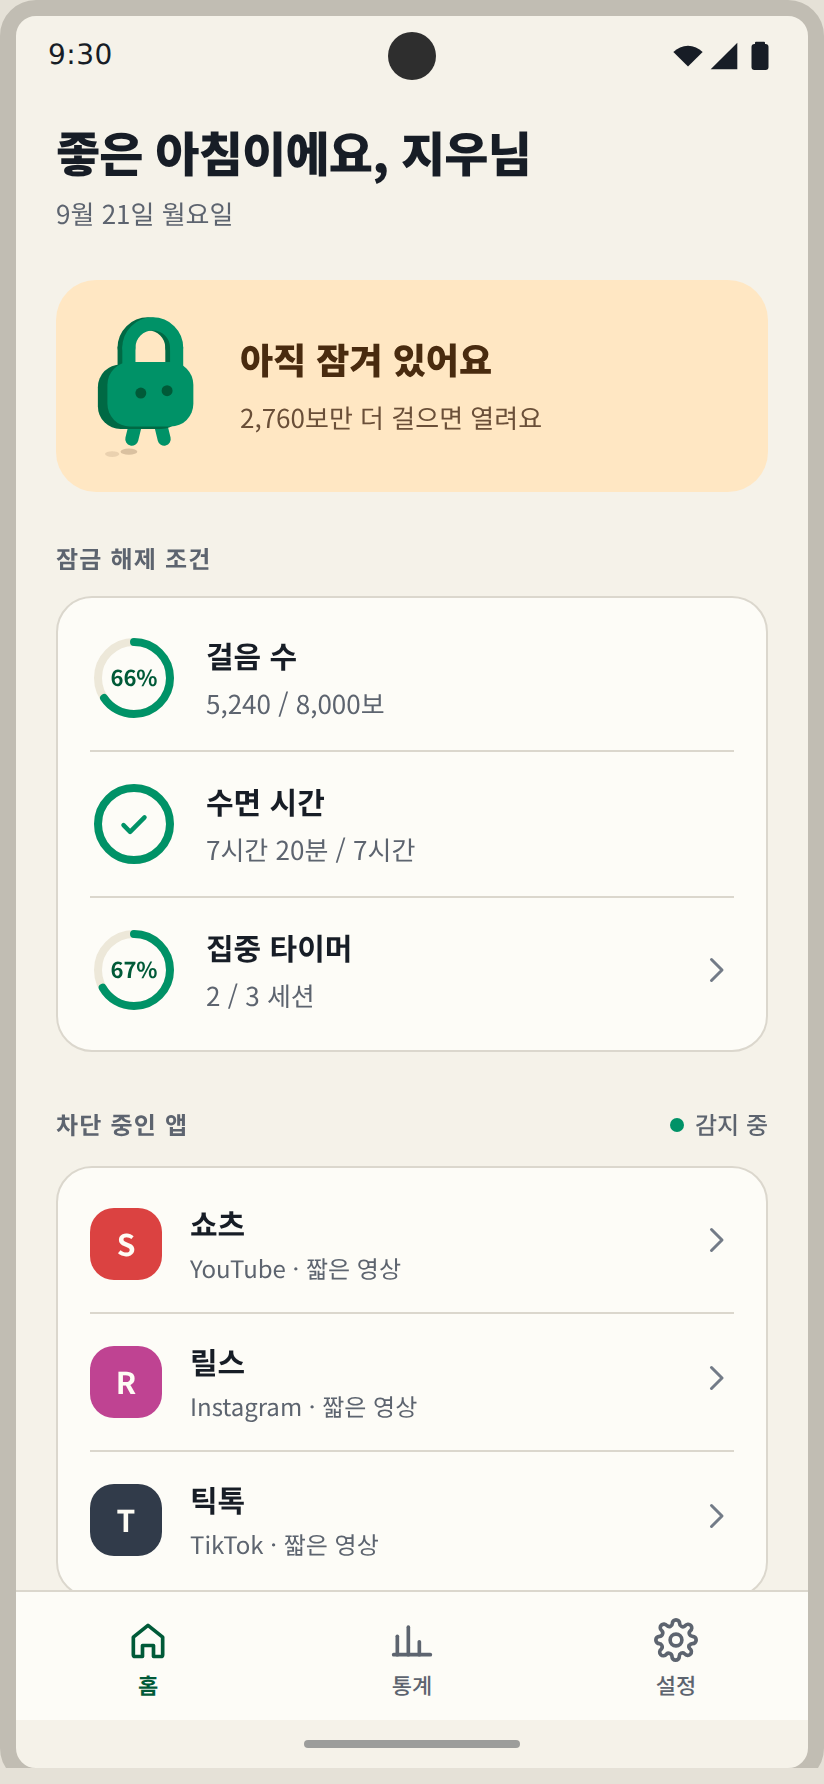
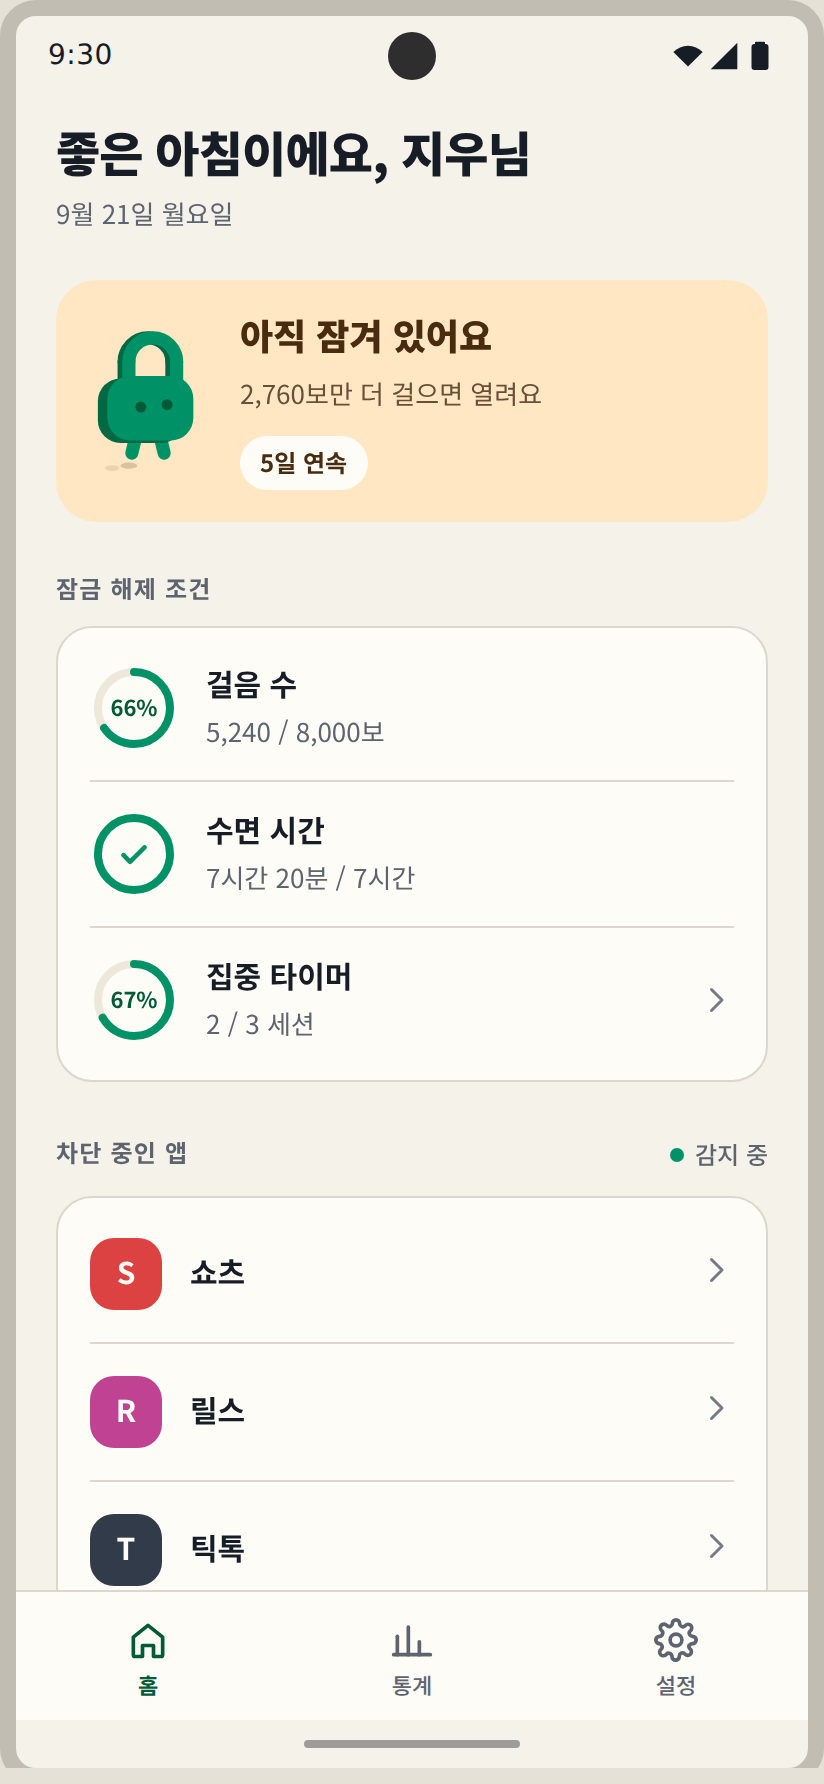
프리뷰 데이터와 화면 이미지 갱신
연속 달성을 붙이고 보니 샘플 데이터로는 0일이 나왔습니다. 전부 만족
모드에서 세 조건을 다 채운 날이 7일 중 하루뿐이었습니다. 스크린샷에
"현재 0일 · 최장 1일"이 찍히면 기능이 없는 것처럼 보입니다.

"최근 닷새는 다 채웠고 오늘은 아직"으로 바꿨습니다. 연속 5일이 나오고,
오늘은 수면만 달성이라 조건 링의 두 상태가 한 화면에 같이 보이며,
홈과 잠금 화면이 같은 결론(아직 잠김)을 냅니다.

레이아웃 두 곳이 탭바에 잘렸습니다.

- 통계: 연속 달성을 두 줄로 쌓으니 요약인데 자리를 제일 많이 차지해
  아래 내용이 밀렸습니다. 라벨과 숫자를 한 줄로 합쳤습니다.
- 홈: 앱 목록의 부제("YouTube · 짧은 영상")를 뺐습니다. 어느 앱의
  기능인지는 앱을 고르는 설정에서 필요하고, 홈에서는 줄 높이만 두 배로
  키우고 있었습니다.

Claude-Session: https://claude.ai/code/session_01TfDVSB28YoT3k36WsBEoLF

diff --git a/app/src/main/java/com/steplock/app/ui/screens/StatsScreen.kt b/app/src/main/java/com/steplock/app/ui/screens/StatsScreen.kt
@@ -214,7 +214,10 @@ private fun AchievementRow(icon: ImageVector, title: String, achievedByDay: List
     )
 }
 
-/** 숫자를 크게, 라벨을 작게. 현재 기록만 브랜드 색으로 강조합니다. */
+/**
+ * 라벨과 숫자를 한 줄에 둡니다. 두 줄로 쌓으면 아래 차트와 조건 목록이
+ * 화면 밖으로 밀려서, 요약인데 자리를 제일 많이 차지하게 됩니다.
+ */
 @Composable
 private fun StreakFigure(
     label: String,
@@ -222,12 +225,15 @@ private fun StreakFigure(
     highlight: Boolean,
     modifier: Modifier = Modifier,
 ) {
-    Column(modifier = modifier) {
+    Row(
+        modifier = modifier,
+        horizontalArrangement = Arrangement.spacedBy(8.dp),
+        verticalAlignment = Alignment.CenterVertically,
+    ) {
         Text(text = label, style = SlText.LabelSm, color = SlColor.TextSecondary)
-        Spacer(Modifier.height(6.dp))
         Text(
             text = stringResource(R.string.stats_streak_days, days),
-            style = SlText.Greeting,
+            style = SlText.StatusTitle,
             color = if (highlight) SlColor.Brand else SlColor.TextPrimary,
         )
     }

diff --git a/app/src/main/java/com/steplock/app/data/SampleData.kt b/app/src/main/java/com/steplock/app/data/SampleData.kt
@@ -29,13 +29,18 @@ object SampleData {
         pomodoroSessions = 2,
     )
 
+    /**
+     * 최근 닷새는 세 조건을 다 채웠고 오늘은 아직 못 채운 상태.
+     * 연속 달성이 5일로 나오고, 오늘은 잠긴 채로 수면만 달성이라
+     * 조건 링의 두 상태(퍼센트·체크)가 한 화면에 같이 보입니다.
+     */
     val weekly: List<DailyStat> = listOf(
         Triple(6420, 390, 1),
         Triple(8210, 445, 3),
-        Triple(3180, 420, 0),
-        Triple(9040, 470, 2),
-        Triple(7650, 400, 4),
-        Triple(0, 505, 0),
+        Triple(8600, 430, 3),
+        Triple(9040, 470, 4),
+        Triple(8150, 425, 3),
+        Triple(8320, 440, 3),
         Triple(5240, 440, 2),
     ).mapIndexed { index, (steps, sleepMinutes, sessions) ->
         DailyStat(

diff --git a/app/src/main/java/com/steplock/app/ui/screens/HomeScreen.kt b/app/src/main/java/com/steplock/app/ui/screens/HomeScreen.kt
@@ -212,7 +212,8 @@ fun HomeScreen(
                             name = app.name,
                             badgeInitial = app.initial,
                             badgeColor = appBadgeColor(app.id),
-                            subtitle = app.subtitle,
+                            // 부제(어느 앱의 기능인지)는 앱을 고르는 설정에서만 필요합니다.
+                            // 홈에서는 줄만 두 배로 키워 목록이 화면을 넘기게 만들었습니다.
                             badgeSize = 36.dp,
                             nameStyle = SlText.ListItem,
                             verticalPadding = 12.dp,
